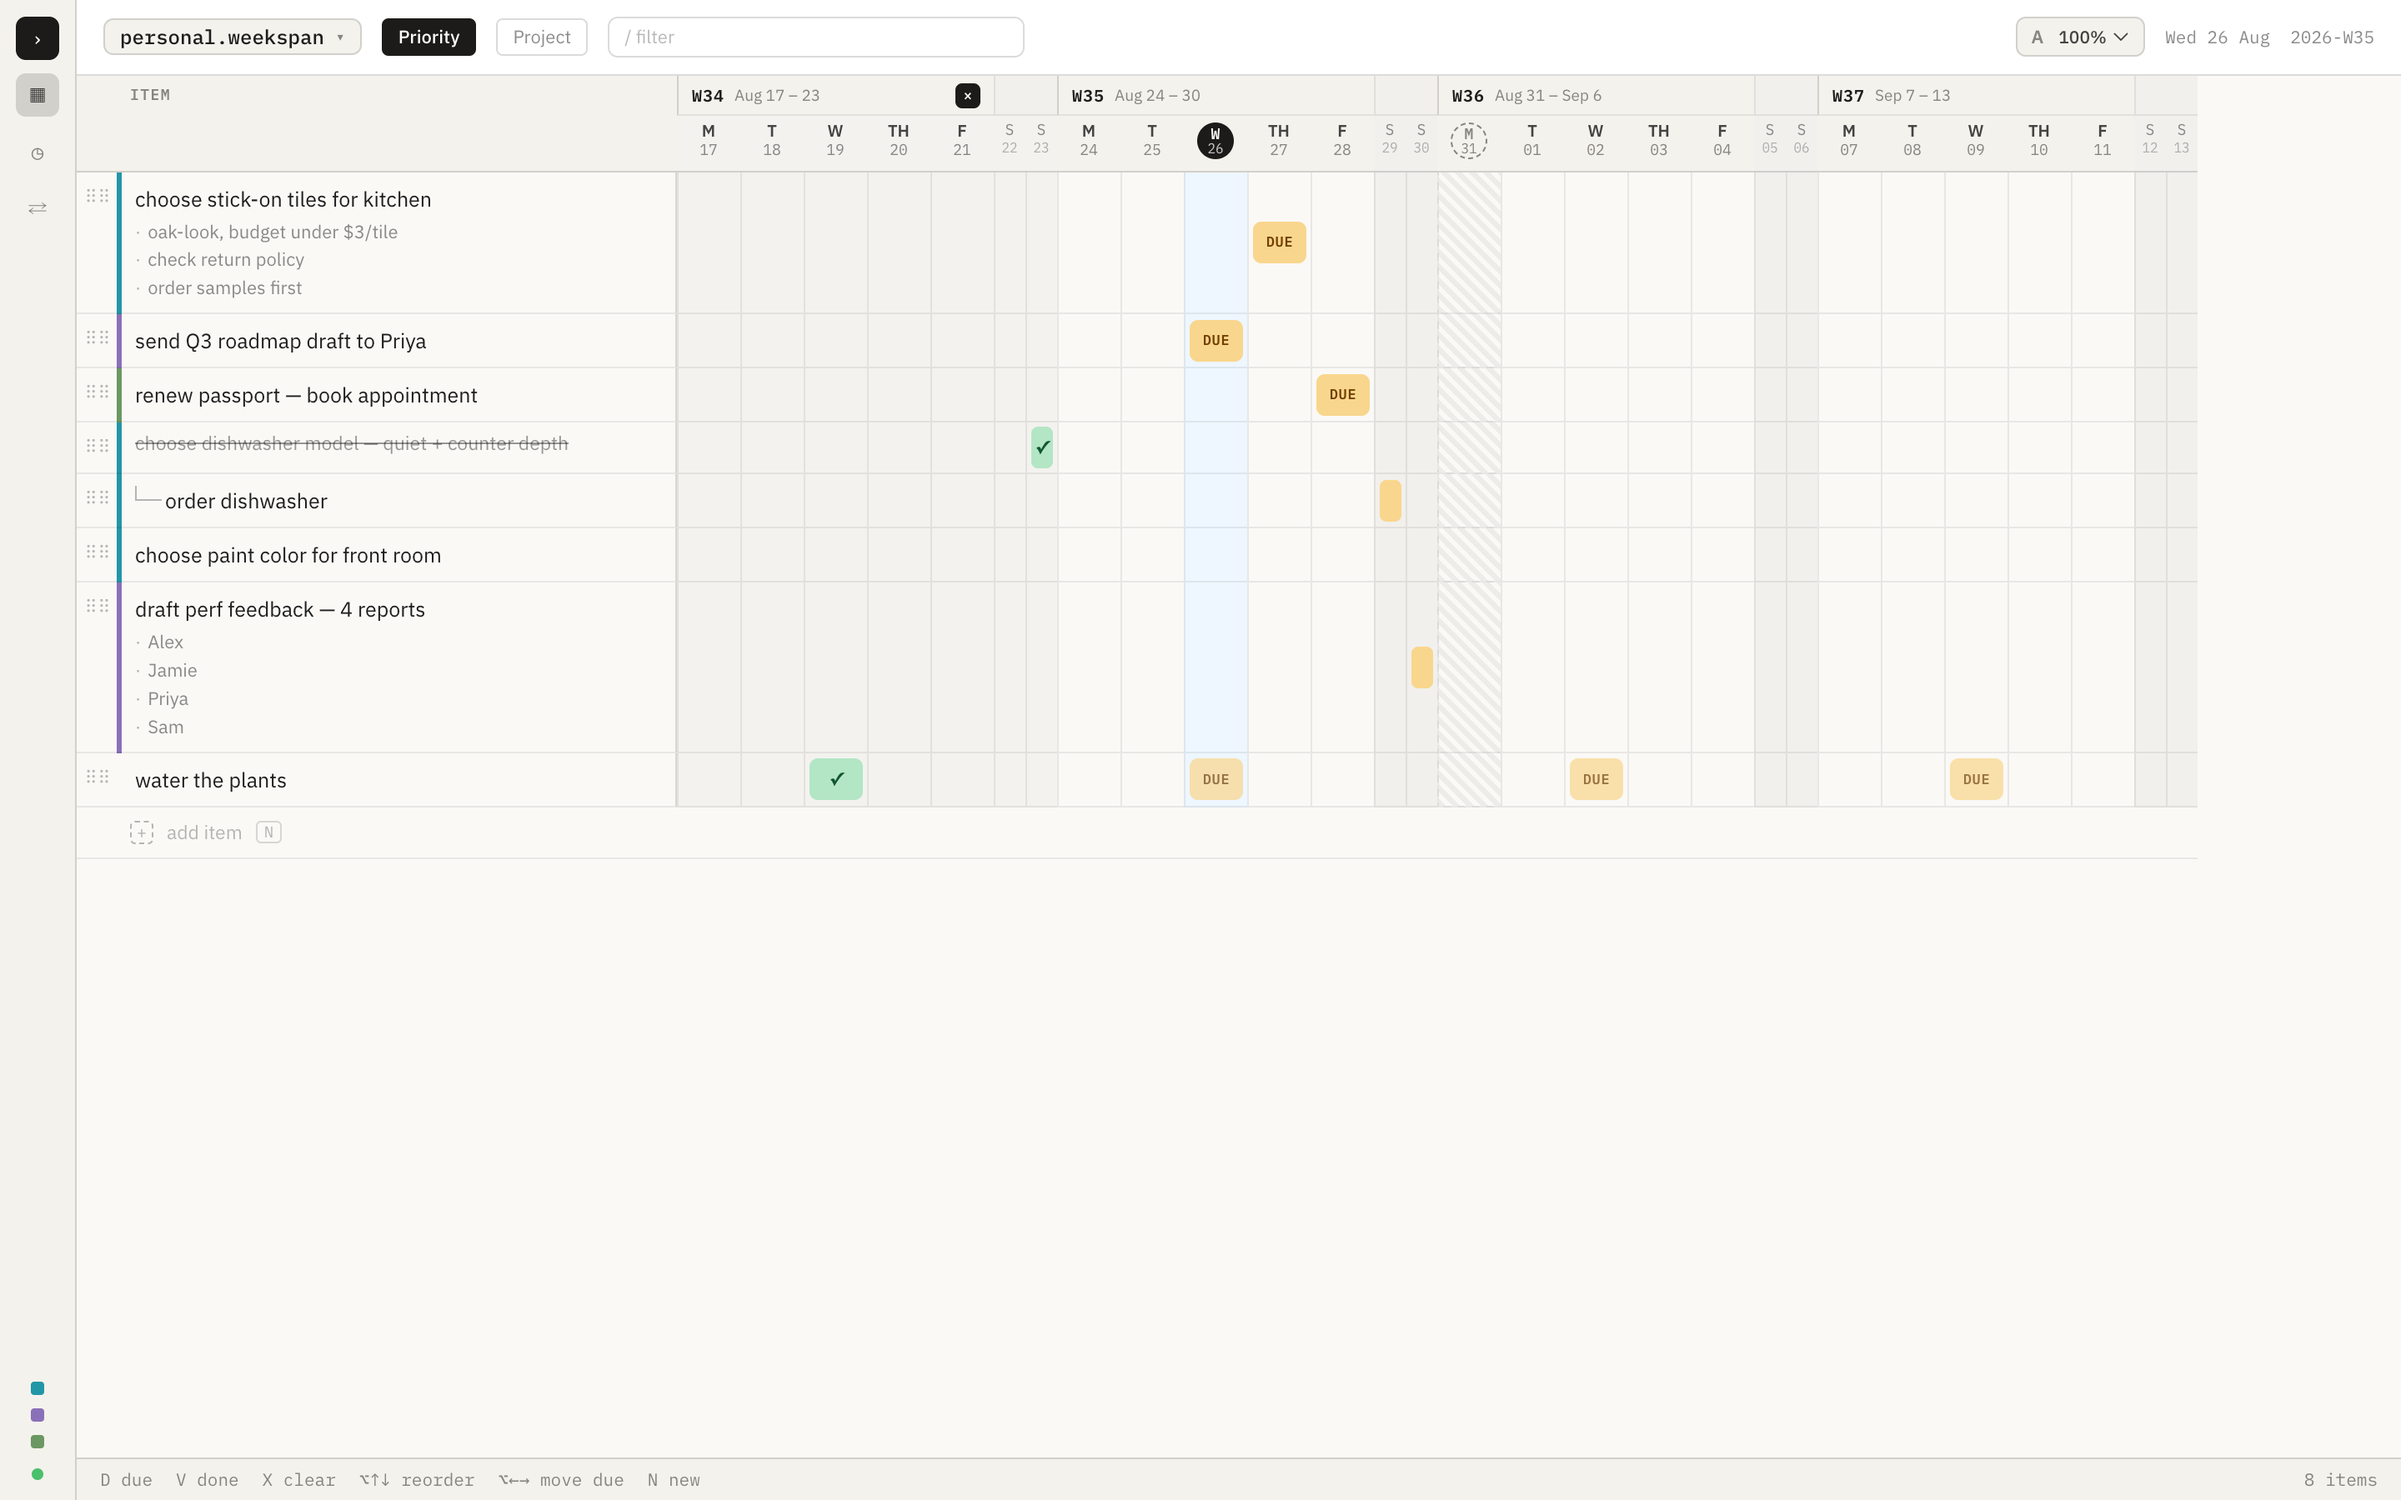
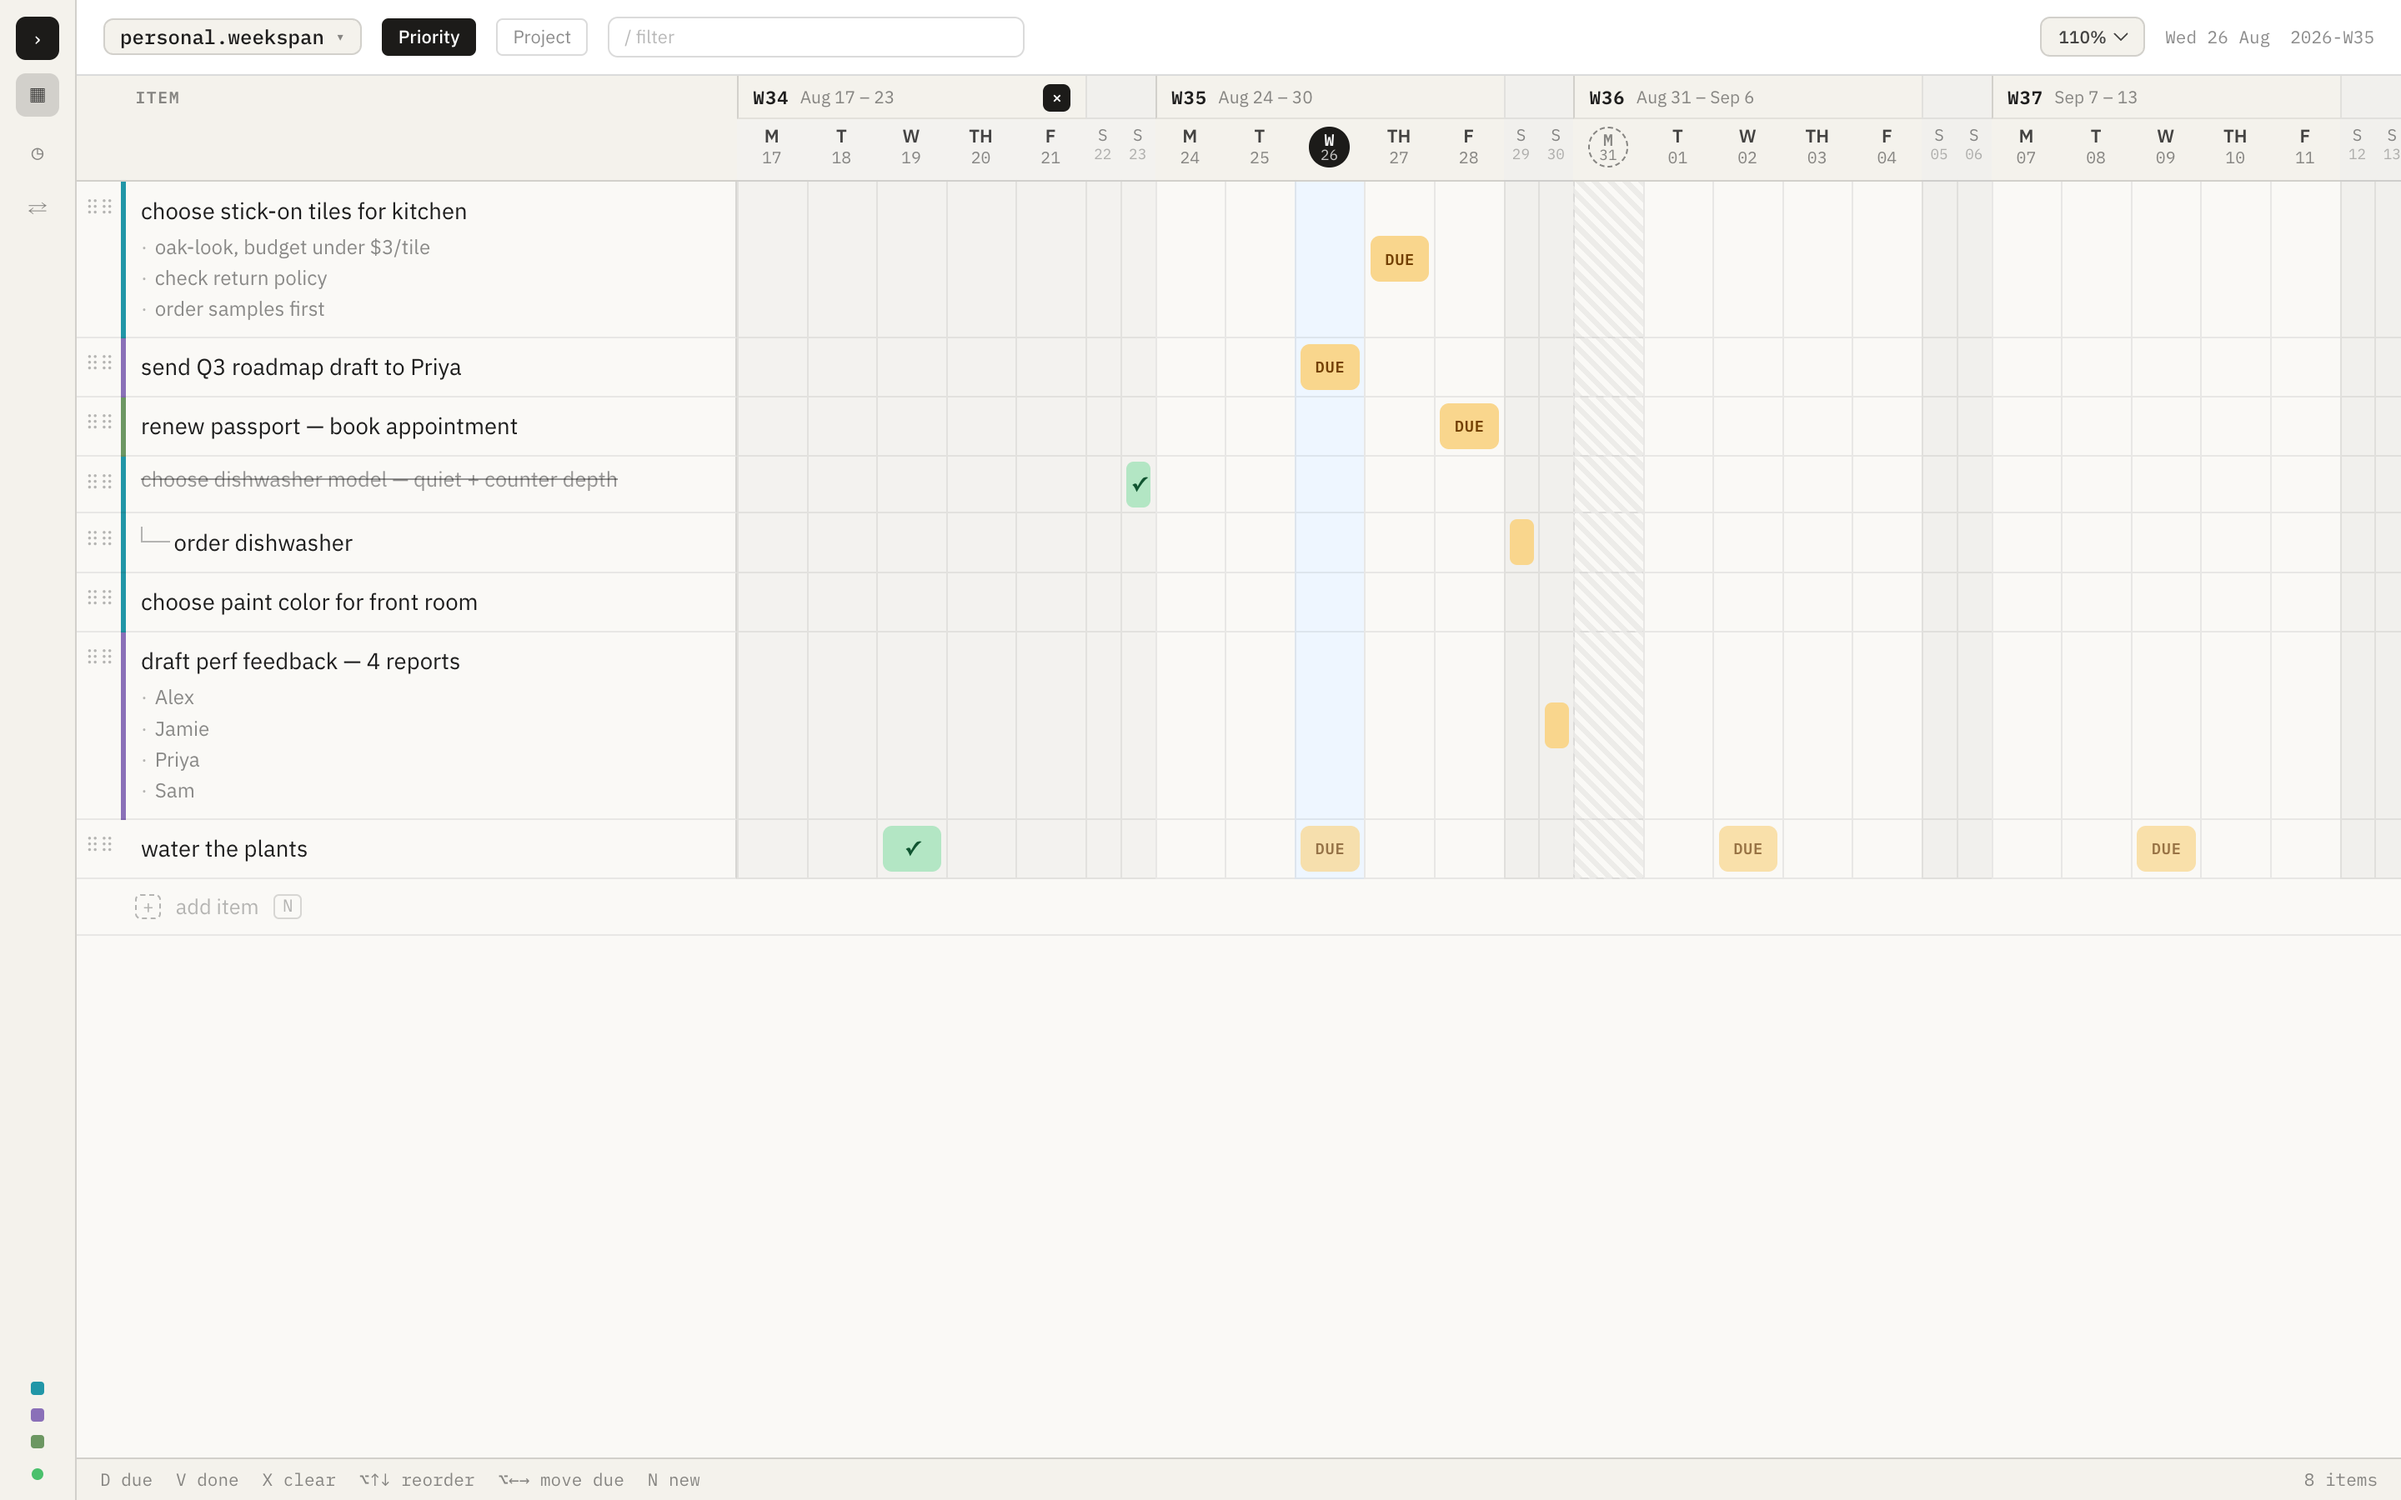
Zoom: default to 110%, drop the A glyph
110% is the size that reads correctly at a normal desktop distance; the design's
px values were tuned on a denser canvas.

The percentage reads as a size control on its own, so the leading A is noise.

diff --git a/apps/web/src/zoom.tsx b/apps/web/src/zoom.tsx
@@ -17,7 +17,7 @@ import { useEffect, useState } from 'react'
 
 const KEY = 'weekspan.zoom'
 export const ZOOM_LEVELS = [0.9, 1, 1.1, 1.25, 1.5, 1.75] as const
-export const DEFAULT_ZOOM = 1
+export const DEFAULT_ZOOM = 1.1
 
 export function loadZoom(storage: Storage | undefined = safeStorage()): number {
   try {
@@ -83,7 +83,6 @@ export function ZoomPicker({
 }): JSX.Element {
   return (
     <label className="ws-zoom" title="Interface size">
-      <span className="ws-zoom-glyph">A</span>
       <select
         className="ws-zoom-select"
         value={zoom}

diff --git a/apps/web/src/styles/app.css b/apps/web/src/styles/app.css
@@ -195,15 +195,10 @@ textarea {
   display: inline-flex;
   align-items: center;
   gap: 5px;
-  padding: 3px 6px 3px 8px;
+  padding: 3px 6px;
   border: 1px solid var(--ws-hair-strong);
   border-radius: var(--ws-radius-btn);
   background: var(--ws-subtle);
-}
-
-.ws-zoom-glyph {
-  font: 600 11px/1 'IBM Plex Sans', sans-serif;
-  color: var(--ws-ink-3);
 }
 
 .ws-zoom-select {
